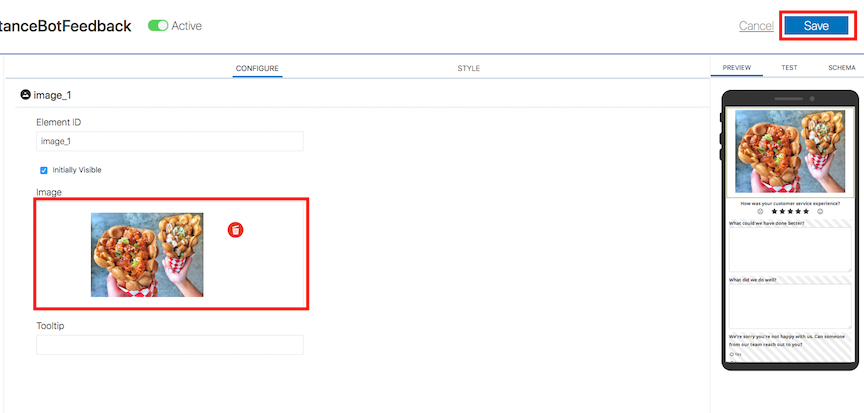
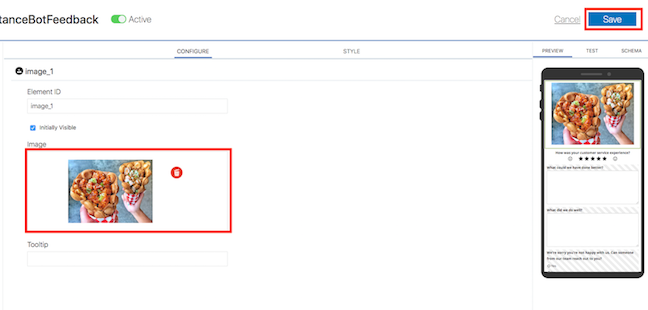
lab200 images resized

diff --git a/workshops/intelligent-chatbots/LabGuide200.md b/workshops/intelligent-chatbots/LabGuide200.md
@@ -24,38 +24,38 @@ Build and Integrate Instant App and Web Channel
 
 - You can build the Instant Apps using the Instant App Builder, which you access by clicking Instant Apps in the Skills landing page.
 
-![D:\\Workshop\_Bot\\BotsLab2\\Capture2.PNG](images/200/image3.png)
+  ![D:\\Workshop\_Bot\\BotsLab2\\Capture2.PNG](images/200/image3.png)
 
 - Select “Add Instant App”.
 
-![This is an image of the instant app landing page.](images/200/11.png)
+  ![This is an image of the instant app landing page.](images/200/11.png)
 
 - Use a template.
 
-#### ![D:\\Workshop\_Bot\\BotsLab2\\Capture4.PNG](images/200/12.png)
+  ![D:\\Workshop\_Bot\\BotsLab2\\Capture4.PNG](images/200/12.png)
 
 - Select the “Customer Survey” template.
 
-#### ![D:\\Workshop\_Bot\\BotsLab2\\Capture4.PNG](images/200/13.png)
+  ![D:\\Workshop\_Bot\\BotsLab2\\Capture4.PNG](images/200/13.png)
 
 - Write Name as “CafeteriaAssistanceBotFeedback” and the same for ID (case-sensitive).  Use an image, you can use the one below by right clicking and choosing "Copy Image Location", then paste that into the URL field. Add a description and click save.
 
-![D:\\Workshop\_Bot\\BotsLab2\\Capture6.PNG](images/200/14.png)
-![D:\\Workshop\_Bot\\BotsLab2\\Capture6.PNG](images/200/food.jpeg)
+  ![D:\\Workshop\_Bot\\BotsLab2\\Capture6.PNG](images/200/14.png)
+  ![D:\\Workshop\_Bot\\BotsLab2\\Capture6.PNG](images/200/food.jpeg)
 
 
 **Invite Message and Link**
 - Upload the same picture to the invitation by clicking the trash icon to remove the current picture and pasting in the photo URL, leaving the other fields as their default values and click save in the top right.
 
-![D:\\Workshop\_Bot\\BotsLab2\\Capture7.PNG](images/200/image8.png)
+  ![D:\\Workshop\_Bot\\BotsLab2\\Capture7.PNG](images/200/image8.png)
 
 - Next navigate to the left hand side of the page and expand "Layout", then select "image1".
 
-![D:\\Workshop\_Bot\\BotsLab2\\image33.PNG](images/200/image33.png)
+  ![D:\\Workshop\_Bot\\BotsLab2\\image33.PNG](images/200/image33.png)
 
 - Change the image by once again choosing the trashcan icon and then pasting in the same URL you have used for the invitation. With this done ensure you click save in the top right. You can now go ahead and close this tab to return to your Skill.
 
-![D:\\Workshop\_Bot\\BotsLab2\\image34.PNG](images/200/image34.png)
+  ![D:\\Workshop\_Bot\\BotsLab2\\image34.PNG](images/200/image34.png)
 
 - Back in the Flow section for your skill, add the below lines after the CafeteriaAssistanceBot YAML you added in Lab 100.
 **Now add the below YAML code in the flow:**
@@ -79,15 +79,14 @@ interactive:
 ```
 - Follow the below screen for the same.
 
-![D:\\Workshop\_Bot\\BotsLab2\\Capture16.PNG](images/200/image9.png)
+  ![D:\\Workshop\_Bot\\BotsLab2\\Capture16.PNG](images/200/image9.png)
 
 - Now click “Validate”, “Train” and “Run” button to test the Instant App. If any problems arise in validation check your flow for indentation issues in the lines you just pasted. Then click the Link button, and you will be able to see the Feedback page.
 
-![D:\\Workshop\_Bot\\BotsLab2\\Capture17.PNG](images/200/image10.png)
+  ![D:\\Workshop\_Bot\\BotsLab2\\Capture17.PNG](images/200/image10.png)
 
 - Now fill in the form, you can try different star counts to see the form change, and click on “Submit Feedback” button. When you close the tab the bot will respond with "Thank's for providing your valuable feedback. Have a nice day!", as is designated in the flow.
-![](images/200/image11.png)
-![D:\\Workshop\_Bot\\BotsLab2\\Capture15.PNG](images/200/image12.png)
+  ![](images/200/image11.png) ![D:\\Workshop\_Bot\\BotsLab2\\Capture15.PNG](images/200/image12.png)
 
 
 
@@ -102,15 +101,15 @@ Autonomous Digital Assistant provides channels for Facebook Messenger, Web, Andr
 
 - Return to the Autonomous Digital Assistant Console. If the side menu is not open select the hamburger icon from the top right of the page, expand “Development” and select “Channels”. Ensure that “Users” is selected from the options and select “+ Channel”
 
-![D:\\Workshop\_Bot\\image2.PNG](images/200/15.png)
+  ![D:\\Workshop\_Bot\\image2.PNG](images/200/15.png)
 
 - Name the channel "Web", write a brief description and choose "Channel Type” **Web**. Click **Create**.
 
-![D:\\Workshop\_Bot\\BotsLab2\\web4.PNG](images/200/16.png)
+  ![D:\\Workshop\_Bot\\BotsLab2\\web4.PNG](images/200/16.png)
 
 - Route the Channel to your new CafeteriaAssistanceBot, enable the channel and copy the App ID.
 
-![D:\\Workshop\_Bot\\BotsLab2\\web5.PNG](images/200/17.png)
+  ![D:\\Workshop\_Bot\\BotsLab2\\web5.PNG](images/200/17.png)
 
 - Now, unzip the below folder and then open index.html file which is inside the html folder in any text-editor.
 
@@ -118,15 +117,15 @@ Autonomous Digital Assistant provides channels for Facebook Messenger, Web, Andr
 
 - In the index.html file change the appId like below:
 
-![D:\\Workshop\_Bot\\BotsLab2\\page1.PNG](images/200/image30.png)
+  ![D:\\Workshop\_Bot\\BotsLab2\\page1.PNG](images/200/image30.png)
 
 - Once you change the appId, save the file and open in any browser (preferred Mozilla Firefox). It will be seen as the below screen:
 
-![D:\\Workshop\_Bot\\BotsLab2\\webpage.PNG](images/200/image31.png)
+  ![D:\\Workshop\_Bot\\BotsLab2\\webpage.PNG](images/200/image31.png)
 
 - Once you click on the right-bottom corner image - ChatBot icon (marked as red in above snapshot), you can see the below screen:
 
-![D:\\Workshop\_Bot\\BotsLab2\\webpage2.PNG](images/200/image32.png)
+  ![D:\\Workshop\_Bot\\BotsLab2\\webpage2.PNG](images/200/image32.png)
 
 - Now your ChatBot is integrated with the web page. To do testing type “ShowMenu” in a message and then click on the “Send” button.
 
